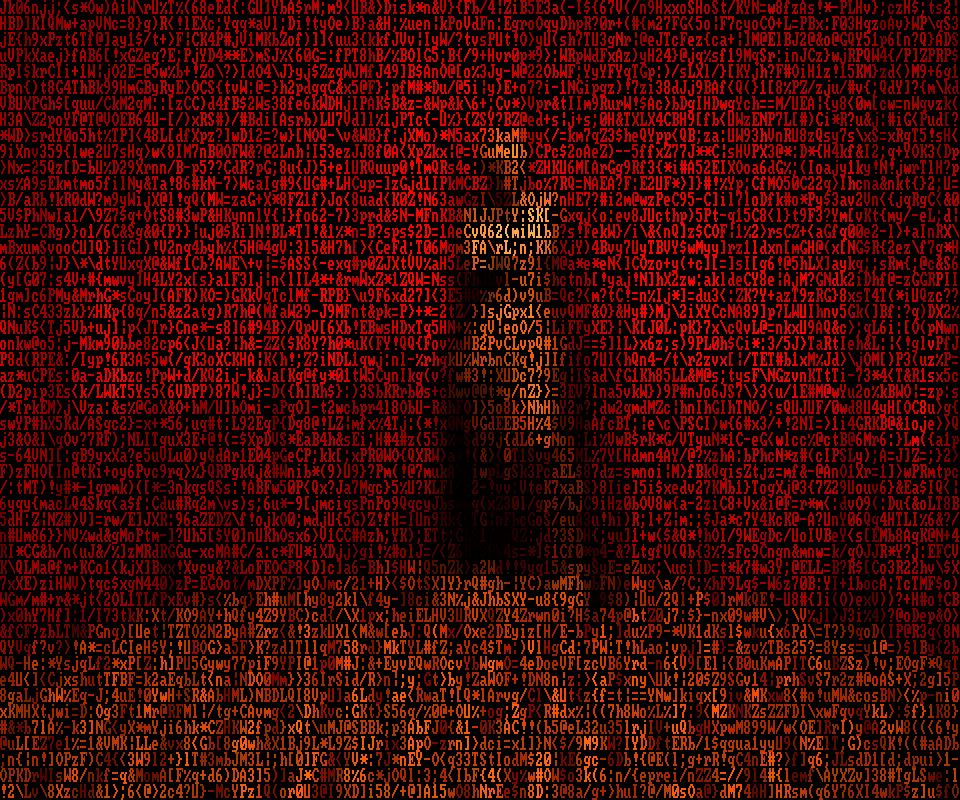
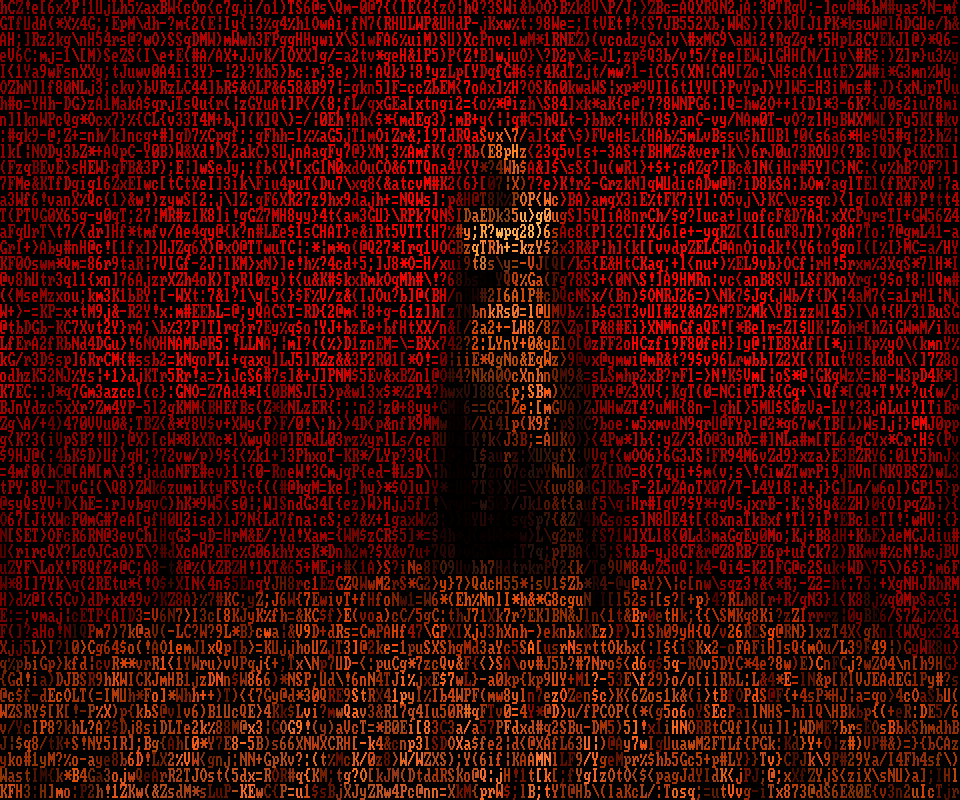
Make the statue read as marble and the floor chevrons less red
Replace the flat saturation boost with selective saturation: vivid reds
get richer, but low-chroma pixels (the marble statue and the white floor
chevrons, both warm under the Red Room's light) are pulled back toward
neutral so they read as stone/white instead of red. Add a floor-aware
pass that whitens the light chevron stripes while keeping the dark
stripes dark, preserving the zigzag contrast. Refresh the README image.

Claude-Session: https://claude.ai/code/session_01B3oZJErAH1JjZYi9x7BsHK

diff --git a/cpeaks.c b/cpeaks.c
@@ -97,24 +97,52 @@ static void load_image(void) {
     }
 }
 
-/* Brighten + add contrast (and a touch of saturation so the reds stay rich).
- * Applied once to the source so the live render and snapshot stay identical. */
-static double e_contrast = 1.30;   /* >1 = more contrast            */
-static double e_bright   = 30.0;   /* additive lift (brighter)      */
-static double e_sat      = 1.26;   /* >1 = richer colour            */
+/* Brighten + add contrast, with SELECTIVE saturation: vivid reds get richer,
+ * but low-chroma pixels (the marble statue, the white chevrons under the red
+ * light) get pulled back toward neutral so they read as stone/white instead of
+ * red. Applied once to the source so live render and snapshot stay identical. */
+static double e_contrast   = 1.30;   /* >1 = more contrast                    */
+static double e_bright     = 30.0;   /* additive lift (brighter)              */
+static double e_sat_vivid  = 1.22;   /* saturation mult for vivid pixels      */
+static double e_sat_neutral= 0.42;   /* saturation mult for near-neutral ones */
+static double e_chroma_lo  = 30.0;   /* below this chroma -> treat as neutral */
+static double e_chroma_hi  = 120.0;  /* above this chroma -> treat as vivid   */
+
+static double smoothstep(double a, double b, double x) {
+    if (b <= a) return x < a ? 0.0 : 1.0;
+    double t = (x - a) / (b - a);
+    if (t < 0) t = 0; if (t > 1) t = 1;
+    return t * t * (3.0 - 2.0 * t);
+}
 
 static void enhance_image(void) {
     long n = (long)iw * ih;
     for (long i = 0; i < n; i++) {
+        double sy_norm = (double)(i / iw) / ih;
+        int floor = sy_norm > FLOOR_LINE;
         double c[3];
         for (int k = 0; k < 3; k++) {
             double v = img[i*3 + k];
             v = (v - 128.0) * e_contrast + 128.0 + e_bright;   /* contrast+bright */
             c[k] = v;
         }
+        double mx = c[0] > c[1] ? (c[0] > c[2] ? c[0] : c[2]) : (c[1] > c[2] ? c[1] : c[2]);
+        double mn = c[0] < c[1] ? (c[0] < c[2] ? c[0] : c[2]) : (c[1] < c[2] ? c[1] : c[2]);
+        double chroma = mx - mn;
+        double t = smoothstep(e_chroma_lo, e_chroma_hi, chroma);
+        double satmul = e_sat_neutral * (1.0 - t) + e_sat_vivid * t;
         double gray = 0.299*c[0] + 0.587*c[1] + 0.114*c[2];
+
+        /* Floor: whiten the LIGHT chevron stripes toward neutral white while
+         * leaving the dark stripes dark, so the zigzag reads white-on-dark. */
+        double whiten = 0.0;
+        if (floor) {
+            double lightness = smoothstep(120.0, 200.0, gray);  /* light stripe? */
+            satmul *= (1.0 - 0.75 * lightness);                  /* desaturate lights */
+            whiten = 22.0 * lightness;                           /* lift toward white */
+        }
         for (int k = 0; k < 3; k++) {
-            double v = gray + (c[k] - gray) * e_sat;           /* saturation     */
+            double v = gray + (c[k] - gray) * satmul + whiten;
             if (v < 0) v = 0; if (v > 255) v = 255;
             img[i*3 + k] = (unsigned char)(v + 0.5);
         }